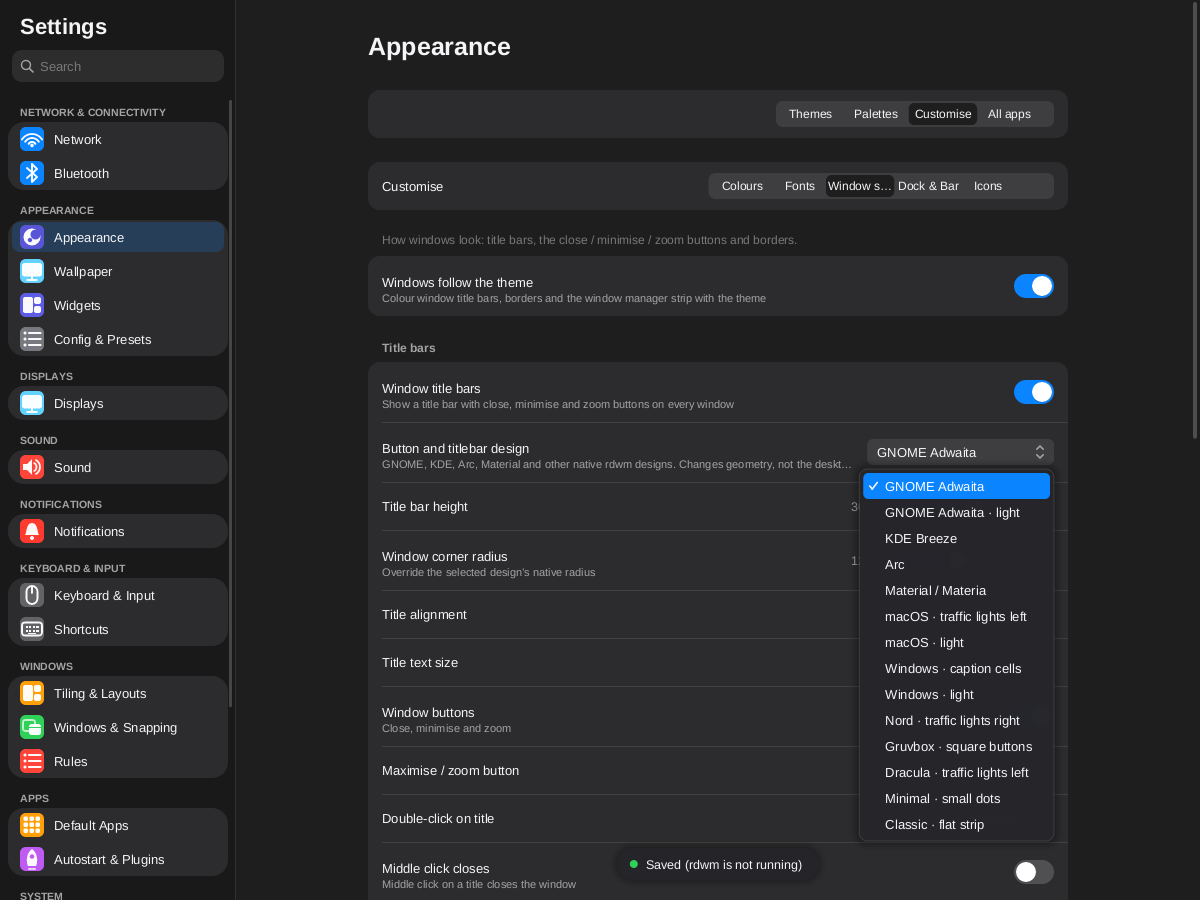
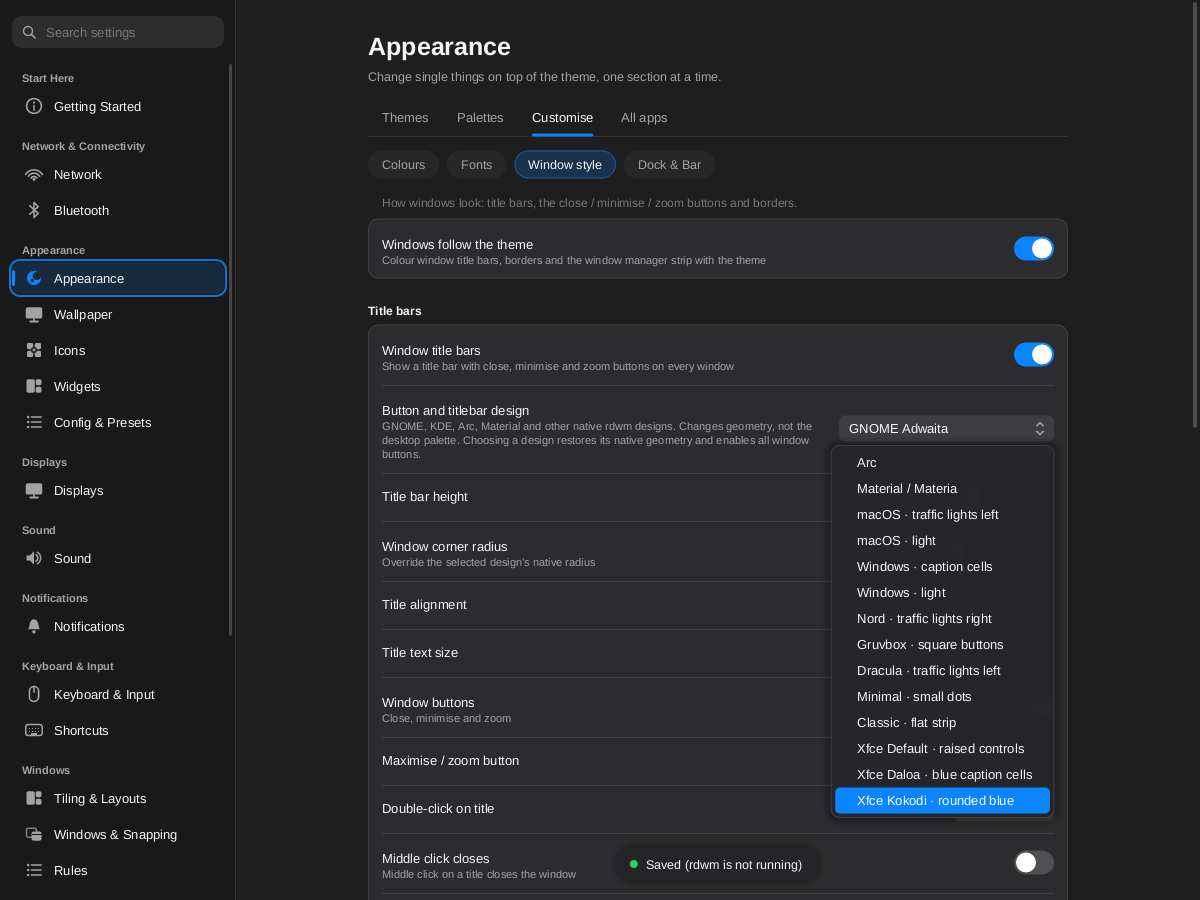
Expose rdwm's XFCE-inspired decoration styles in Settings
Adds xfce-default, xfce-daloa and xfce-kokodi (rdwm cd2f42b) to the Window
style picker as "Xfce Default · raised controls", "Xfce Daloa · blue caption
cells" and "Xfce Kokodi · rounded blue". They are native approximations of
the xfwm4 themes, not exact ports; nothing from xfwm4 is vendored.

- decoration-catalogue.json regenerated with the existing preview-helper
  metadata export, so heights, radii, button size/gap/margin and title
  alignment are the renderer's own values; the 15 existing rows are
  unchanged.
- rdwm-schema.json regenerated from a rdwmctl built at cd2f42b (private
  target): decoration_styles and decoration.style choices. The unrelated
  window-shadow keys are not taken because the installed rdwmctl does not
  know them (snapshot_matches_installed_rdwmctl_if_any).
- choices() still filters by the live rdwm's reported set, so an older WM is
  never offered IDs it cannot parse (new test uses the previous 15-ID set).
- Search hints (xfce, xfwm4, daloa, kokodi, raised, bevel), docs, 12 native
  renderer sheets and refreshed picker evidence (End key reaches the new
  entries).

Tests: native metrics for all three IDs, every design has a complete
catalogue row and schema choice, older-WM filtering, search and picker
offer the new IDs, frozen schema cross-checked against the cd2f42b rdwmctl.

diff --git a/src/settings/decorations.rs b/src/settings/decorations.rs
@@ -1,4 +1,5 @@
 //! Audited structural titlebar designs implemented by rdwm-deco. Not desktop palettes.
+//! The three Xfce entries are rdwm's native approximations inspired by xfwm4 themes, not exact ports (docs/decorations.md).
 use super::{
     schema::Schema,
     tomlcfg::{Cfg, Val},
@@ -19,6 +20,9 @@ pub const DESIGNS: &[(&str, &str)] = &[
     ("Dracula · traffic lights left", "dracula"),
     ("Minimal · small dots", "minimal"),
     ("Classic · flat strip", "classic"),
+    ("Xfce Default · raised controls", "xfce-default"),
+    ("Xfce Daloa · blue caption cells", "xfce-daloa"),
+    ("Xfce Kokodi · rounded blue", "xfce-kokodi"),
 ];
 
 /// Respect an older live rdwm's actual supported set. The updated frozen schema is the offline fallback.
@@ -64,18 +68,58 @@ mod tests {
     fn catalogue_matches_supported_schema_and_never_offers_no_buttons() {
         let schema = Schema::snapshot();
         let options = choices(&schema);
-        assert_eq!(options.len(), 14);
+        assert_eq!(options.len(), 17);
         for (_, id) in &options {
             assert!(default_value(id, "height").is_some());
         }
         assert!(!options.iter().any(|(_, s)| *s == "borderonly"));
-        for id in ["adwaita", "breeze", "arc", "materia"] {
+        for id in ["adwaita", "breeze", "arc", "materia", "xfce-default", "xfce-daloa", "xfce-kokodi"] {
             assert!(options.iter().any(|(_, s)| *s == id));
         }
+        // A live rdwm from before the Xfce styles (the previous frozen set) must not be offered IDs it cannot parse.
+        let mut previous = schema.clone();
+        previous.keys.iter_mut().find(|m| m.section == "decoration" && m.key == "style").unwrap().choices =
+            ["macos", "macos-light", "classic", "windows", "windows-light", "adwaita", "adwaita-light", "breeze", "arc", "materia", "nord", "gruvbox", "dracula", "minimal", "borderonly"]
+                .map(String::from)
+                .to_vec();
+        let offered = choices(&previous);
+        assert_eq!(offered.len(), 14);
+        assert!(!offered.iter().any(|(_, s)| s.starts_with("xfce-")), "unsupported IDs are never offered to an older rdwm");
         let mut older = schema;
         older.keys.iter_mut().find(|m| m.section == "decoration" && m.key == "style").unwrap().choices = vec!["macos".into(), "classic".into()];
         assert_eq!(choices(&older), vec![("macOS · traffic lights left", "macos"), ("Classic · flat strip", "classic")]);
     }
+    #[test]
+    fn xfce_designs_use_the_native_renderers_own_metrics() {
+        // Values exported by the actual rdwm-deco renderer (tools/build-decoration-preview.py metadata), not guessed defaults.
+        let expected = [("xfce-default", 29, 3, 19, 2, 5, "center"), ("xfce-daloa", 24, 0, 24, 0, 0, "left"), ("xfce-kokodi", 30, 8, 20, 3, 6, "center")];
+        for (id, height, radius, size, gap, margin, align) in expected {
+            assert_eq!(default_value(id, "height"), Some(Val::Int(height)), "{id}");
+            assert_eq!(default_value(id, "radius"), Some(Val::Int(radius)), "{id}");
+            assert_eq!(default_value(id, "button_size"), Some(Val::Int(size)), "{id}");
+            assert_eq!(default_value(id, "button_gap"), Some(Val::Int(gap)), "{id}");
+            assert_eq!(default_value(id, "button_margin"), Some(Val::Int(margin)), "{id}");
+            assert_eq!(default_value(id, "title_align"), Some(Val::Str(align.into())), "{id}");
+            assert!(DESIGNS.iter().any(|(label, s)| *s == id && label.starts_with("Xfce")));
+        }
+    }
+
+    #[test]
+    fn every_design_has_a_complete_catalogue_row_and_a_schema_choice() {
+        let schema = Schema::snapshot();
+        let supported = &schema.get("decoration", "style").unwrap().choices;
+        for (label, id) in DESIGNS {
+            assert!(supported.iter().any(|c| c == id), "{label} missing from the frozen schema");
+            for key in ["height", "radius", "button_size", "button_gap", "button_margin", "border_px", "title_align"] {
+                assert!(default_value(id, key).is_some(), "{id} lacks native default {key}");
+            }
+        }
+        let mut ids: Vec<_> = DESIGNS.iter().map(|(_, s)| *s).collect();
+        ids.sort_unstable();
+        ids.dedup();
+        assert_eq!(ids.len(), DESIGNS.len(), "duplicate design id");
+    }
+
     #[test]
     fn every_design_restores_geometry_and_all_controls_without_recoloring() {
         for (_, id) in DESIGNS {

diff --git a/src/settings/appearance.rs b/src/settings/appearance.rs
@@ -443,7 +443,7 @@ pub const INDEX: &[(Tab, Section, &str, &str)] = &[
         Tab::Customise,
         Section::WindowStyle,
         "Button and titlebar design",
-        "macos classic windows gnome adwaita kde breeze arc material materia nord gruvbox dracula minimal titlebar decoration button look",
+        "macos classic windows gnome adwaita kde breeze arc material materia nord gruvbox dracula minimal xfce xfwm xfwm4 default daloa kokodi raised bevel titlebar decoration button look",
     ),
     (Tab::Customise, Section::WindowStyle, "Title bar height", "titlebar size thick"),
     (Tab::Customise, Section::WindowStyle, "Window corner radius", "rounded titlebar radius"),
@@ -671,6 +671,29 @@ mod tests {
         }
         let h = crate::settings::system::registry::search("accent", &[]);
         assert!(h.iter().any(|x| x.label.as_deref() == Some("Accent colour")), "{h:?}");
+    }
+
+    #[test]
+    fn xfce_styles_are_found_by_search_and_offered_in_the_window_style_picker() {
+        for q in ["xfce", "daloa", "kokodi", "xfwm4"] {
+            let h = crate::settings::system::registry::search(q, &[]);
+            assert!(h.iter().any(|x| x.label.as_deref() == Some("Button and titlebar design")), "{q}: {h:?}");
+        }
+        let (mut m, _) = model_with("[decoration]\nenabled = true\n");
+        m.sel.tab = Tab::Customise;
+        m.sel.section = Section::WindowStyle;
+        let values: Vec<String> = items(&m)
+            .into_iter()
+            .filter_map(|i| if let Item::Card(rows) = i { Some(rows) } else { None })
+            .flatten()
+            .flat_map(|r| r.ctls)
+            .filter(|c| c.id == "r:decoration:style")
+            .flat_map(|c| if let Kind::Popup(o, _) = c.kind { o.into_iter().map(|(_, v)| v).collect() } else { Vec::new() })
+            .collect();
+        for id in ["xfce-default", "xfce-daloa", "xfce-kokodi", "adwaita"] {
+            assert!(values.iter().any(|v| v == id), "{id} not offered: {values:?}");
+        }
+        assert!(!values.iter().any(|v| v == "borderonly"));
     }
 
     #[test]

diff --git a/src/settings/app.rs b/src/settings/app.rs
@@ -1812,7 +1812,12 @@ mod key_tests {
         a.draw(&mut pixels);
         let control = a.frame.placed.iter().find(|p| p.ctl.id == "r:decoration:style").expect("design picker present").clone();
         a.open_popup(&control);
-        assert_eq!(a.popup.as_ref().unwrap().opts.len(), 14);
+        assert_eq!(a.popup.as_ref().unwrap().opts.len(), 17);
+        // The list scrolls: End (the real key path) reaches the last entry so the Xfce designs are in the evidence.
+        a.key(&ev(Key::End, None));
+        let popup = a.popup.as_ref().unwrap();
+        assert_eq!((popup.hover, popup.opts[16].1.as_str()), (Some(16), "xfce-kokodi"));
+        assert!(popup.top + popup.visible >= 17);
         a.draw(&mut pixels);
         if let Some(dir) = std::env::var_os("DECEBAL_DECORATION_EVIDENCE") {
             let dir = std::path::PathBuf::from(dir);

diff --git a/src/settings/schema.rs b/src/settings/schema.rs
@@ -96,8 +96,10 @@ mod tests {
         assert!(s.keys.len() > 60 && s.layouts.len() >= 20 && s.actions.contains(&"spawn".to_string()));
         let m = s.get("general", "mfact").unwrap();
         assert_eq!((m.min, m.max), (Some(0.05), Some(0.95)));
-        assert_eq!(s.get("decoration", "style").unwrap().choices.len(), 15);
-        assert!(s.get("decoration", "style").unwrap().choices.contains(&"adwaita".to_string()));
+        assert_eq!(s.get("decoration", "style").unwrap().choices.len(), 18);
+        for id in ["adwaita", "xfce-default", "xfce-daloa", "xfce-kokodi"] {
+            assert!(s.get("decoration", "style").unwrap().choices.contains(&id.to_string()), "{id}");
+        }
     }
 
     /// When an rdwmctl is reachable (RDWMCTL env, PATH or the sibling rdwm worktree) the bundled

diff --git a/docs/decorations.md b/docs/decorations.md
@@ -7,7 +7,7 @@ actual offline `rdwmctl schema --offline` output. No rdwm renderer was duplicate
 or edited. This first delivery exposes existing implementations, not new ports.
 
 Appearance → Customise → Window style now has a **Button and titlebar design**
-picker for 14 real supported IDs. An older live rdwm only sees its supported
+picker for 17 real supported IDs (14 original plus the three XFCE-inspired styles below). An older live rdwm only sees its supported
 subset. The refreshed offline schema exposes the modern set too. Border-only is
 excluded because it cannot meet the close/minimise/maximise requirement; existing
 hand-authored border-only configurations remain loadable.
@@ -43,6 +43,9 @@ snapshot should move with its corresponding native renderer version.
 | `gruvbox` | Right / Square / Lights | 28 / 4 px | Exposed: [dark](decorations/native/gruvbox-dark-1x.png), [light](decorations/native/gruvbox-light-1x.png) |
 | `dracula` | Left / Circle / Lights | 28 / 8 px | Exposed: [dark](decorations/native/dracula-dark-1x.png), [light](decorations/native/dracula-light-1x.png) |
 | `minimal` | Right / Circle / Lights | 20 / 0 px | Exposed: [dark](decorations/native/minimal-dark-1x.png), [light](decorations/native/minimal-light-1x.png) |
+| `xfce-default` | Right / Square / Bevel | 29 / 3 px | Exposed: [dark](decorations/native/xfce-default-dark-1x.png), [light](decorations/native/xfce-default-light-1x.png) |
+| `xfce-daloa` | Right / Cell / Bevel | 24 / 0 px | Exposed: [dark](decorations/native/xfce-daloa-dark-1x.png), [light](decorations/native/xfce-daloa-light-1x.png) |
+| `xfce-kokodi` | Right / Circle / Ghost | 30 / 8 px | Exposed: [dark](decorations/native/xfce-kokodi-dark-1x.png), [light](decorations/native/xfce-kokodi-light-1x.png) |
 | `borderonly` | Right / Circle / Ghost | 8 / 0 px | Diagnostic only; no buttons: [dark](decorations/native/borderonly-dark-1x.png), [light](decorations/native/borderonly-light-1x.png) |
 
 The named GNOME/Adwaita, KDE/Breeze, Arc and Material designs already exist in
@@ -60,6 +63,24 @@ This delivery redistributes no artwork, GTK/Qt theme files or proprietary button
 assets from them. The existing native code and generated previews use rdwm's MIT
 implementation; the source family names remain attribution/reference labels.
 
+## XFCE-inspired styles (rdwm `cd2f42b`)
+
+`xfce-default`, `xfce-daloa` and `xfce-kokodi` are rdwm's own native interpretations of the xfwm4 themes of the same
+names: **inspired approximations, not exact ports** (see rdwm's `docs/XFCE-DECORATIONS.md`: no upstream artwork, SVG,
+pixmap or code is vendored; xfwm4's themes are GPL-2.0, so only names and the general look are referenced). They appear in
+the same picker as "Xfce Default · raised controls", "Xfce Daloa · blue caption cells" and "Xfce Kokodi · rounded blue",
+and the Appearance search finds them by `xfce`, `xfwm4`, `daloa`, `kokodi`, `raised` or `bevel`. Their heights, radii,
+button sizes, gaps, margins and title alignment come from the renderer through the same metadata export as the other
+styles; nothing is guessed. Choosing one applies the same transaction as every other design.
+
+An older live rdwm that predates these IDs reports a shorter `decoration.style` choice list and is only offered what it
+reports (`choices()` filters by the live schema); the bundled schema is the offline fallback.
+
+The bundled `rdwm-schema.json` was regenerated from a `rdwmctl` built at `cd2f42b` (`rdwmctl schema --offline`): its
+`decoration_styles` table and the `decoration.style` choices carry the new IDs. The four window-shadow keys that the same
+output also lists were deliberately **not** copied: the installed rdwmctl does not know them yet and
+`snapshot_matches_installed_rdwmctl_if_any` forbids keys a deployed rdwm lacks. Take them with the next rdwm refresh.
+
 ## Reproduction and QA
 
 ```
@@ -70,7 +91,7 @@ helper=target/decoration-preview-helper/target/debug/decebal-deco-preview
 ```
 
 The optional helper compiles against read-only rdwm-deco; all build files stay
-in this checkout's ignored target/. It generated 60 native sheets: 15 IDs ×
+in this checkout's ignored target/. It generated 72 native sheets: 18 IDs ×
 dark/light neutral application palettes × 1×/2×. Each sheet contains focused,
 unfocused, close-hover, minimise-hover and maximise-hover rows. The exact drawn
 button-center hit areas are tested through rdwm-deco's real hit-test function at
@@ -84,7 +105,7 @@ render scales. Artifacts were built under `target/rdwm-decoration-audit`; no
 rdwm source, runtime binary or live WM/session changed. GUI clicks on live
 application windows were deliberately not used as a test.
 
-Decebal's tests cover the supported-set filter, all 14 design transactions,
+Decebal's tests cover the supported-set filter, all 17 design transactions,
 native defaults, enabled controls, color/font/DPI preservation, explicit zoom
 choice retention and search indexing. Native picker UI evidence is generated
 headlessly by the ignored `native_decoration_picker_evidence` test using private
